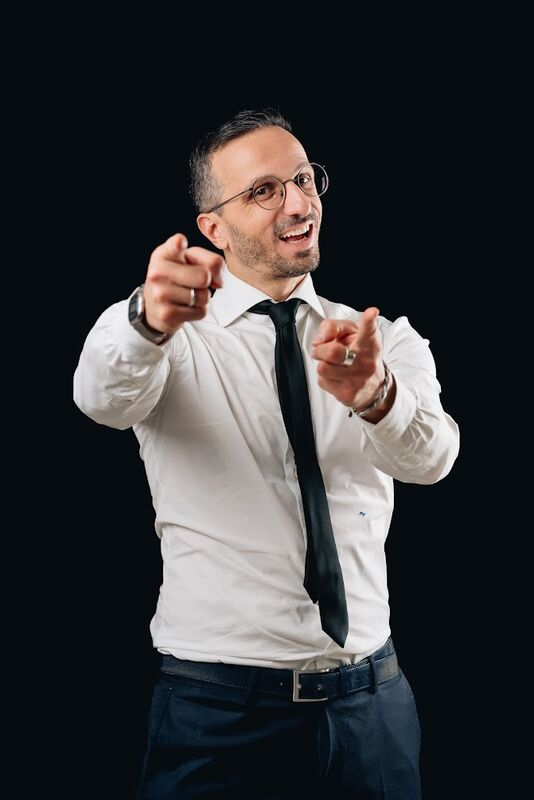
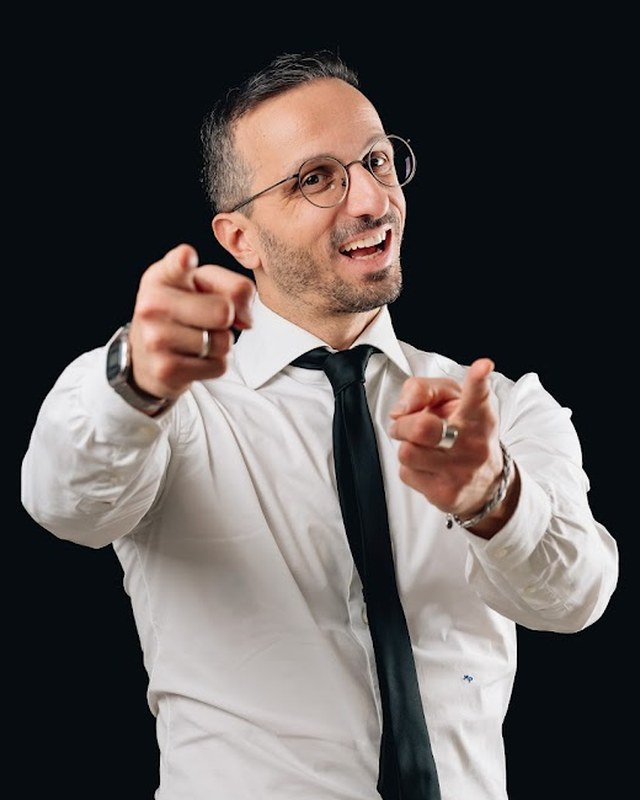
Anteprima: foto Pesacane più grande e più in alto
Claude-Session: https://claude.ai/code/session_011bkBveJ9rDvajb5T843bsu

diff --git a/anteprima/index.html b/anteprima/index.html
@@ -256,7 +256,7 @@ footer .partner{display:flex;align-items:center;gap:14px;margin-top:22px;flex-wr
 <section id="docenti"><div class="wrap">
  <div class="head"><div class="kick">Team</div><h2>Il nostro staff</h2><p>Insegnanti diplomati e professionisti della scena, che seguono ogni allievo per età e livello.</p></div>
  <div class="saggio dir"><div class="img" id="foto-pagano" style="background:#8A3A36 url(doc-pagano.jpg) 45% 50%/cover no-repeat;min-height:620px;font-size:0" role="img" aria-label="Roberta Pagano, direttrice artistica"></div><div class="txt"><div class="kick">Direzione artistica</div><h2>Roberta Pagano</h2><p><b style="color:var(--ink)">Insegna:</b> Pre-danza e propedeutica · Classico · Modern · Heels</p></div></div>
- <div class="grid docenti"><article><div class="img" style="background:#E9E7E4 url(doc-lampitelli.jpg) center 20%/cover no-repeat;font-size:0" role="img" aria-label="Giovanni Lampitelli, docente di Contemporaneo"></div><div class="txt"><h3>Giovanni Lampitelli</h3><small>Docente di Contemporaneo</small></div></article><article><div class="img" style="background:#2A1F4A url(doc-sansone.jpg) center 20%/cover no-repeat;font-size:0" role="img" aria-label="Francesca Sansone, docente di Hip Hop"></div><div class="txt"><h3>Francesca Sansone</h3><small>Docente di Hip Hop</small></div></article><article><div class="img" style="background:#C9C6D6 url(doc-ferrara.jpg) center 15%/cover no-repeat;font-size:0" role="img" aria-label="Gabriella Ferrara, docente di Pilates"></div><div class="txt"><h3>Gabriella Ferrara</h3><small>Docente di Pilates</small></div></article><article><div class="img" style="background:#050608 url(doc-pesacane.jpg) center 20%/cover no-repeat;font-size:0" role="img" aria-label="Marco Pesacane, docente di Dizione e presentatore"></div><div class="txt"><h3>Marco Pesacane</h3><small>Docente di Dizione · Presentatore</small></div></article></div>
+ <div class="grid docenti"><article><div class="img" style="background:#E9E7E4 url(doc-lampitelli.jpg) center 20%/cover no-repeat;font-size:0" role="img" aria-label="Giovanni Lampitelli, docente di Contemporaneo"></div><div class="txt"><h3>Giovanni Lampitelli</h3><small>Docente di Contemporaneo</small></div></article><article><div class="img" style="background:#2A1F4A url(doc-sansone.jpg?v=2) center 20%/cover no-repeat;font-size:0" role="img" aria-label="Francesca Sansone, docente di Hip Hop"></div><div class="txt"><h3>Francesca Sansone</h3><small>Docente di Hip Hop</small></div></article><article><div class="img" style="background:#C9C6D6 url(doc-ferrara.jpg) center 15%/cover no-repeat;font-size:0" role="img" aria-label="Gabriella Ferrara, docente di Pilates"></div><div class="txt"><h3>Gabriella Ferrara</h3><small>Docente di Pilates</small></div></article><article><div class="img" style="background:#050608 url(doc-pesacane.jpg?v=2) center top/cover no-repeat;font-size:0" role="img" aria-label="Marco Pesacane, docente di Dizione e presentatore"></div><div class="txt"><h3>Marco Pesacane</h3><small>Docente di Dizione · Presentatore</small></div></article></div>
  <h3 class="subhead">Assistenti ai corsi</h3>
  <div class="grid docenti assist"><article><div class="img" style="background:#2A1A10 url(doc-iervolino.jpg) center 20%/cover no-repeat;font-size:0" role="img" aria-label="Cecilia Iervolino, assistente ai corsi"></div><div class="txt"><div class="ek">Assistente ai corsi</div><h3>Cecilia Iervolino</h3></div></article><article><div class="img" style="background:#4F5FEF url(doc-romano.jpg) center top/cover no-repeat;font-size:0" role="img" aria-label="Gianni Romano, assistente ai corsi"></div><div class="txt"><div class="ek">Assistente ai corsi</div><h3>Gianni Romano</h3></div></article></div>
 </div></section>
